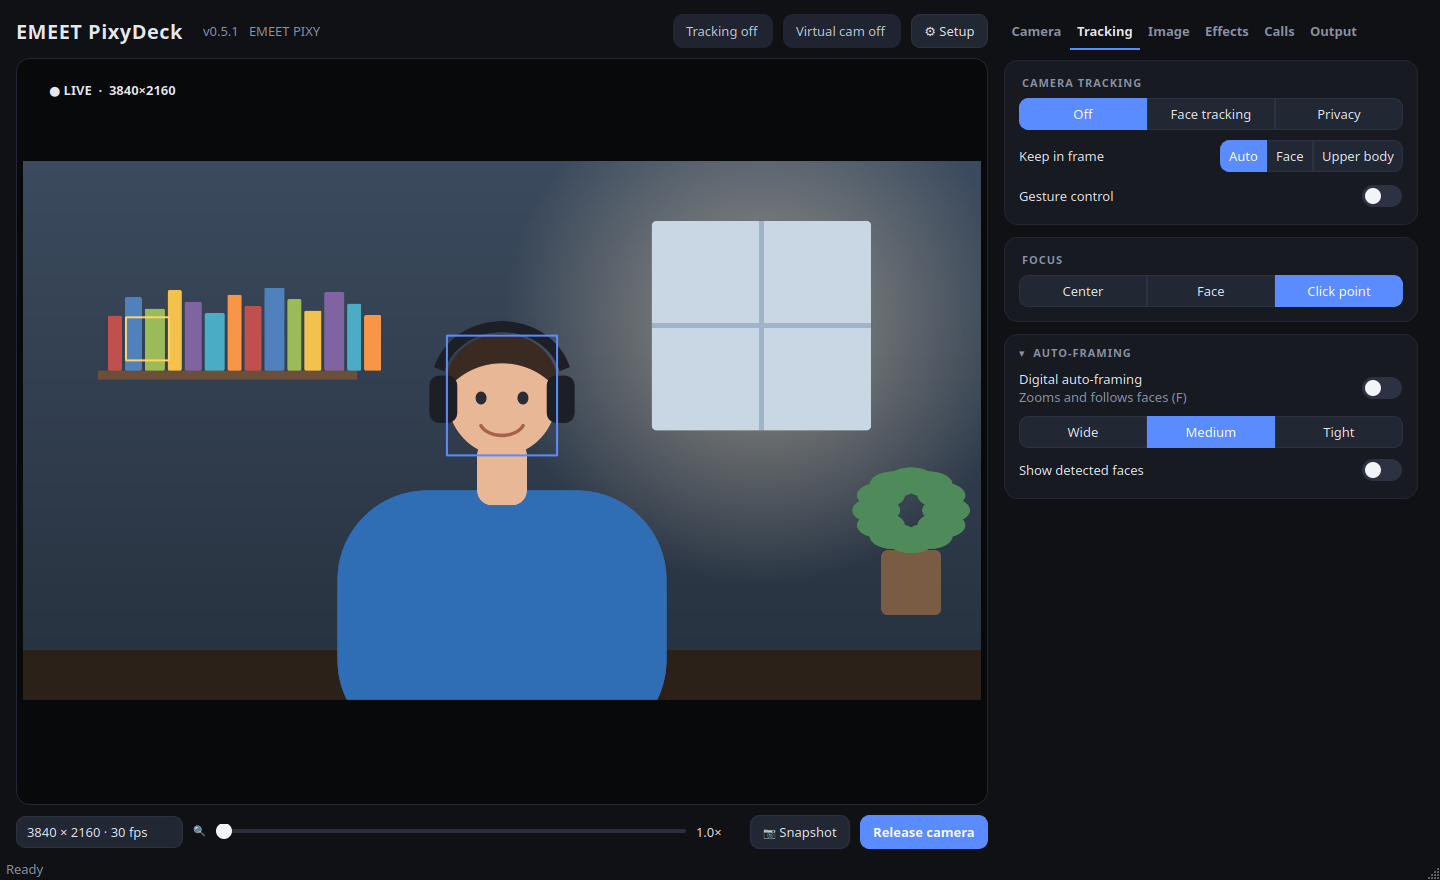
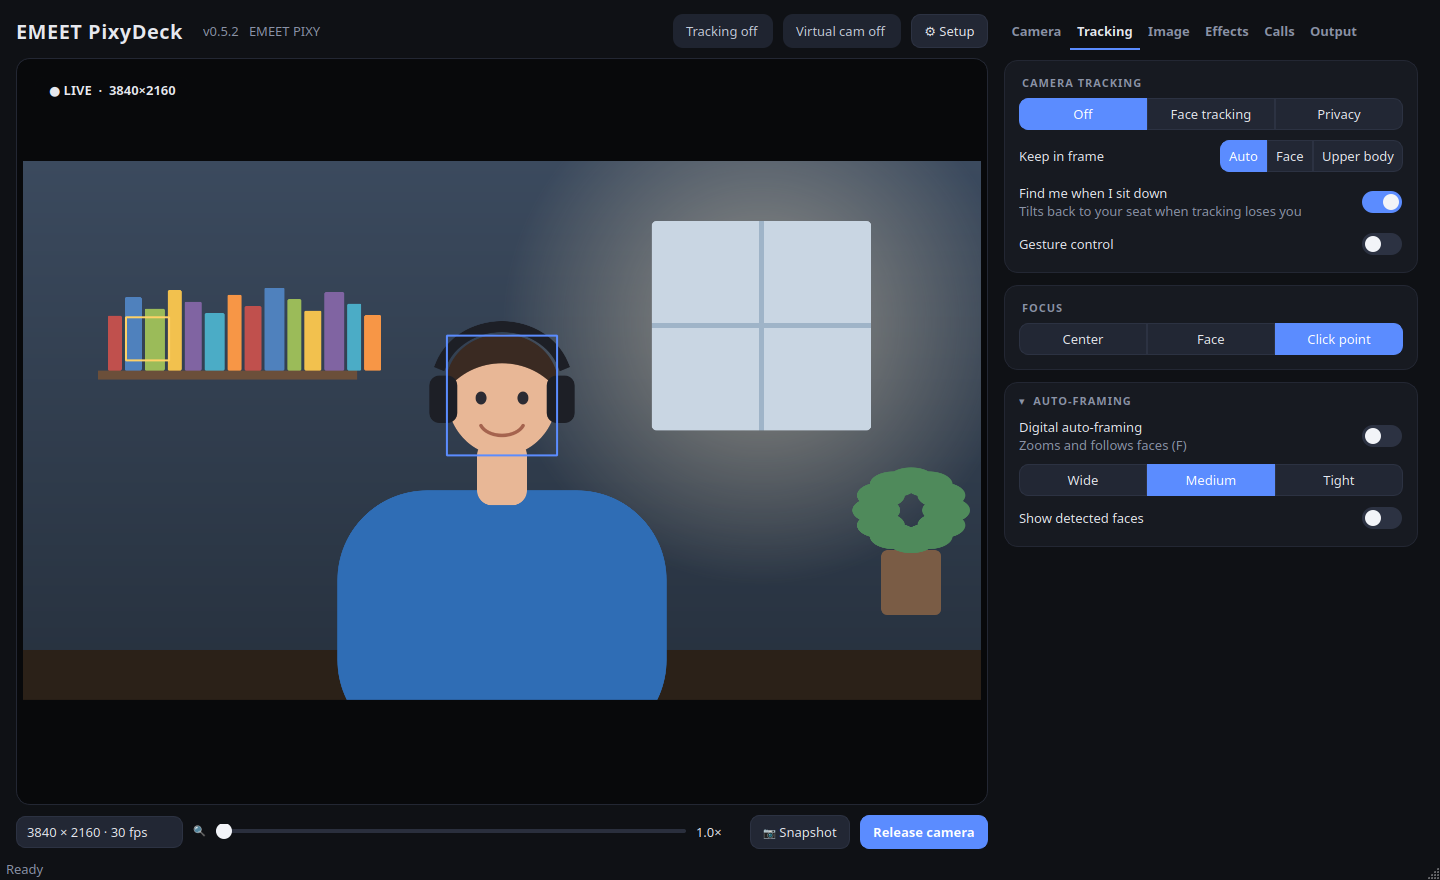
v0.5.2: virtual camera first in line, Find me, steadier stabilization, pan/tilt speed, no dummy device

Changed region(s): [[0.6875, 0.2148, 1.0, 0.6136], [0.6875, 0.2148, 0.9062, 0.2455], [0.6875, 0.583, 0.7812, 0.6136]]

diff --git a/tools/gen_docs.py b/tools/gen_docs.py
@@ -95,7 +95,7 @@ def installed_files() -> str:
     for origin, source, target in re.findall(r'sudo install -m \d+ "\$(ROOT|TMP)/([^"]+)" (\S+)', text):
         label = f"`{source}`" if origin == "ROOT" else f"`{source}` (generated from a `deploy/*.in` template)"
         rows.append((label, f"`{expand(target)}`"))
-    services = sorted(set(re.findall(r"sudo systemctl enable (\S+)", text)))
+    services = sorted(set(re.findall(r"sudo systemctl (?:re)?enable (\S+)", text)))
     rows += [(f"systemd unit `{s}`", "enabled at boot") for s in services]
     rows.append(("private virtualenv", "`~/.local/share/pixydeck/venv`"))
     rows.append(("desktop entry and icon", "`~/.local/share/applications/pixydeck.desktop`, hicolor icon theme"))

diff --git a/src/pixydeck/__init__.py b/src/pixydeck/__init__.py
@@ -8,4 +8,4 @@ VIRTUAL_CAMERA_NAME = "EMEET PIXY (PixyDeck)"
 # Earlier names, still recognised until the device is recreated.
 LEGACY_VIRTUAL_CAMERA_NAMES = ("PixyDeck Virtual Camera",)
 
-__version__ = "0.5.1"
+__version__ = "0.5.2"

diff --git a/CHANGELOG.md b/CHANGELOG.md
@@ -1,6 +1,6 @@
 # Changelog
 
-## Unreleased
+## 0.5.2 - 2026-10-11
 
 - **Find me when I sit down** (Tracking tab, on by default): the PIXY's own tracking tilts too slowly to follow you when you sit down and then stops looking. PixyDeck learns your seated tilt and tilts back there when your face has been gone for over a second; the camera's tracking takes over again
 - Pan/tilt shown in PixyDeck come from the motor controller – the V4L2 controls only echo the last command and missed the camera's own tracking moves
